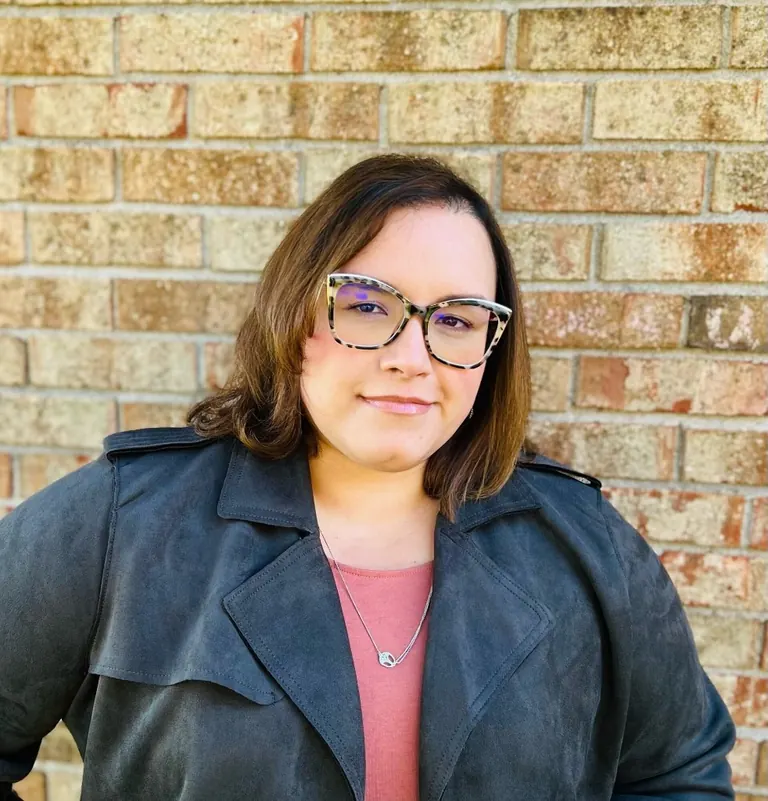
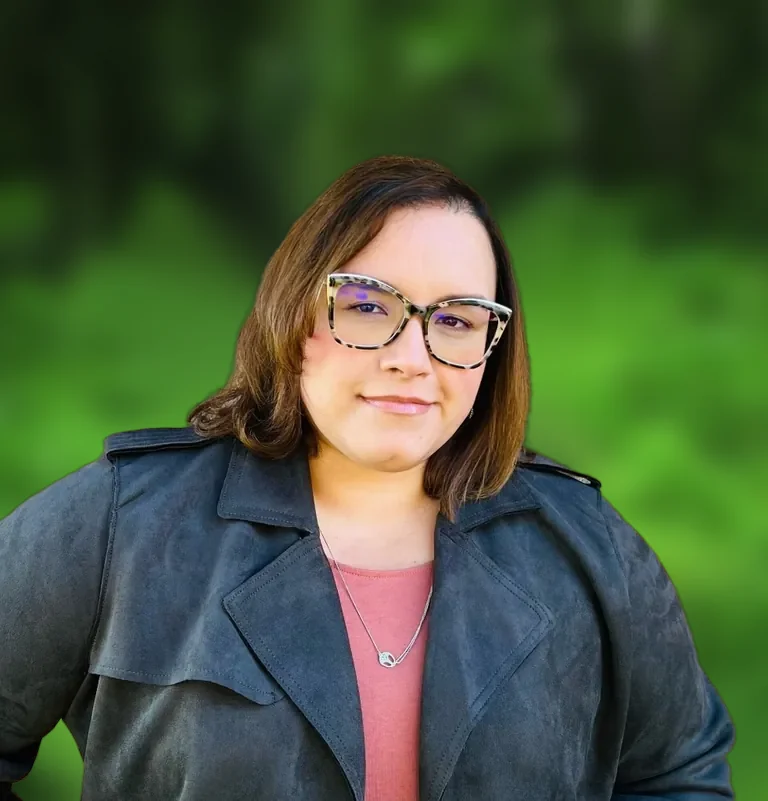
Remove Khentrell Graham and Octavia Francis-Person; green backgrounds for five headshots
Per Dr. Schlichting (2026-09-29):
- Remove Khentrell Graham, LMSW and Octavia Francis-Person, LPC-A from the
  provider data, the internal review list and the photo folder. Their
  provider pages 301 to /about-us/team/ with the other departed clinicians.
- Put the team's green leafy background behind DaShelle Barco, Eunice Rivera
  Miranda, Jeff Rapp, Jonathan Ficara and Meagan Carr so every headshot
  matches. Background built from an existing team photo; same file names
  and dimensions.

Claude-Session: https://claude.ai/code/session_016j8FrdXhCxWThD4ApM2tCf

diff --git a/src/data/providers.js b/src/data/providers.js
@@ -146,11 +146,6 @@ export const providers = [
     focus: ["Children, adolescents, adults & families", "LGBTQ+ communities", "Anxiety, depression, ADHD, OCD & trauma", "Art as expression & nervous-system regulation", "Life transitions, relationship stress & caregiving"],
     quote: "“What Art offers is space – a certain breathing room for the spirit.” — John Updike",
     bio: "Traci is a licensed professional counselor associate and board-certified, provisionally registered art therapist who works with kids, teens, and adults experiencing burnout, emotional overwhelm, and the pressure to constantly hold everything together. She holds a Master's degree in Art Therapy and Clinical Counseling from Albertus Magnus College and a Bachelor's degree in Family Studies from the University of Connecticut.\n\nTraci has experience in higher levels of care and community mental health settings, working with both individuals and groups. She offers a warm, collaborative, and grounded approach, creating space for clients to slow down, reconnect with themselves, and heal in ways that don't rely solely on words.\n\nShe integrates art therapy with evidence-based counseling practices to support individuals navigating life transitions, anxiety, relationship stress, caregiving roles, and patterns of self-criticism. Her work is trauma-informed and strengths-based, using art as a tool for expression, insight, and nervous system regulation—no artistic experience required.\n\nOutside of her clinical work, Traci enjoys nature walks, experimenting with different art materials, spending time with her teenage children, and exploring the world with her partner." },
-  { slug: "khentrell-graham-lmsw", name: "Khentrell Graham, LMSW", credentials: "LMSW", role: "Outpatient Clinician", category: "clinical", photo: "khentrell-graham-lmsw", prescribes: false,
-    education: "Licensed Master Social Worker",
-    focus: ["Middle & high schoolers and young adults", "Emotional regulation & coping skills", "Relationship challenges", "Self-awareness & mindfulness", "Trauma-informed CBT"],
-    quote: null,
-    bio: "With 15 years of experience dedicated to middle schoolers, high schoolers, and young adults, I understand the unique pressures and transitions that define these years. My practice is built on a simple, vital foundation: a safe, non-judgmental environment where you can truly be yourself.\n\nI believe that therapy is most effective when it is client centered. This means our work is a partnership where your voice and your goals come first. My approach is trauma-informed and grounded in Cognitive Behavioral Therapy (CBT), ensuring that we address the root of emotional distress while building practical, real-world solutions.\n\nWhether you are navigating a difficult season or looking to strengthen your emotional toolkit, I am here to provide a space where you feel heard, respected, and empowered. Let's work together to move toward a more grounded and self-aware version of you." },
   { slug: "sherrie-gaudet-lcsw", name: "Sherrie Gaudet, LCSW", credentials: "LCSW, LADC", role: "Licensed Clinical Social Worker & Licensed Drug & Alcohol Counselor", category: "clinical", photo: "sherrie-gaudet-lcsw", prescribes: false,
     education: "Graduate degree in Clinical Social Work, Southern Connecticut State University; BA in Psychology, Worcester State College",
     focus: ["Anxiety, depression & trauma", "Identity exploration", "Grief", "Addiction & co-occurring concerns", "LGBTQ+ communities", "Walk-and-talk / nature-based therapy"],
@@ -176,11 +171,6 @@ export const providers = [
     focus: ["Trauma-informed care", "EMDR", "Internal Family Systems (IFS)", "Program development", "Clinical leadership"],
     quote: null,
     bio: "Joanne Malinka, LCSW, is a Licensed Clinical Social Worker with over 20 years of experience in behavioral health, with a strong background in program development, clinical leadership, and trauma-informed care. She has played a key role in developing and supporting behavioral health programs while working with individuals experiencing complex emotional and psychological challenges.\n\nShe is trained in EMDR and integrates Internal Family Systems (IFS) into her clinical work. Joanne's approach is collaborative, compassionate, and grounded in helping clients process trauma, build insight, and create lasting change.\n\nShe brings a unique blend of clinical expertise and systems-level perspective to her work." },
-  { slug: "octavia-francis-person-lpc-a", name: "Octavia Francis-Person, LPC-A", credentials: "LPC-A", role: "Licensed Professional Counselor Associate", category: "clinical", photo: "octavia-francis-person-lpc-a", prescribes: false,
-    education: "B.A. in Sociology (minor in Psychology), Central Connecticut State University; M.S. in Clinical Mental Health Counseling, Post University",
-    focus: ["Children, adolescents & adults", "DBT & CBT", "Solution-Focused Therapy", "Person-Centered Therapy", "Goal-directed treatment & coping skills"],
-    quote: "“You may not control all the events that happen to you, but you can decide not to be reduced by them.” — Maya Angelou",
-    bio: "Octavia Francis earned her Bachelor of Arts in Sociology with a minor in Psychology from Central Connecticut State University and her Master of Science in Clinical Mental Health Counseling from Post University.\n\nShe has extensive experience working with children, adolescents, and adults in school and intensive outpatient (IOP) settings, supporting individuals facing a wide range of behavioral and mental health challenges. Octavia is passionate about empowering clients to regain control of their lives and move toward meaningful, fulfilled living.\n\nHer therapeutic style is grounded in collaboration, trust, and genuine connection. She strives to create a safe, respectful space where clients feel heard and supported. Recognizing the uniqueness of each individual, Octavia tailors' treatment to meet specific needs. She draws from evidence-based modalities including Dialectical Behavior Therapy (DBT), Cognitive Behavioral Therapy (CBT), Solution-Focused Therapy, and Person-Centered Therapy to create individualized treatment plans targeting both immediate concerns and long-term goals.\n\nCentral to her practice is fostering self-awareness and building a practical set of coping skills. Octavia emphasizes goal-directed treatment with accountability measures, allowing clients to track their progress throughout the process. Because real change happens beyond the therapy room, she focuses on developing structured strategies for the application of skills in everyday life. Her goal is to help clients cultivate sustainable coping mechanisms, resilience, and measurable growth in overall functioning.\n\nOutside of her professional work, Octavia runs a home baking business and enjoys reading, traveling, and spending quality time with family and friends." },
   { slug: "angela-pierce-lmsw", name: "Angela Pierce, LMSW", credentials: "LMSW", role: "Licensed Master Social Worker", category: "clinical", photo: "angela-pierce-lmsw", prescribes: false,
     education: "Bachelor's in Social Work, Central Connecticut State University; Master's in Social Work, Southern Connecticut State University",
     focus: ["Kids, teens & adults (esp. young adults)", "CBT & mindfulness-based practices", "Somatic techniques", "Anxiety, depression & ADHD", "Addiction, self-esteem & life transitions", "Inclusive, identity-affirming care"],
